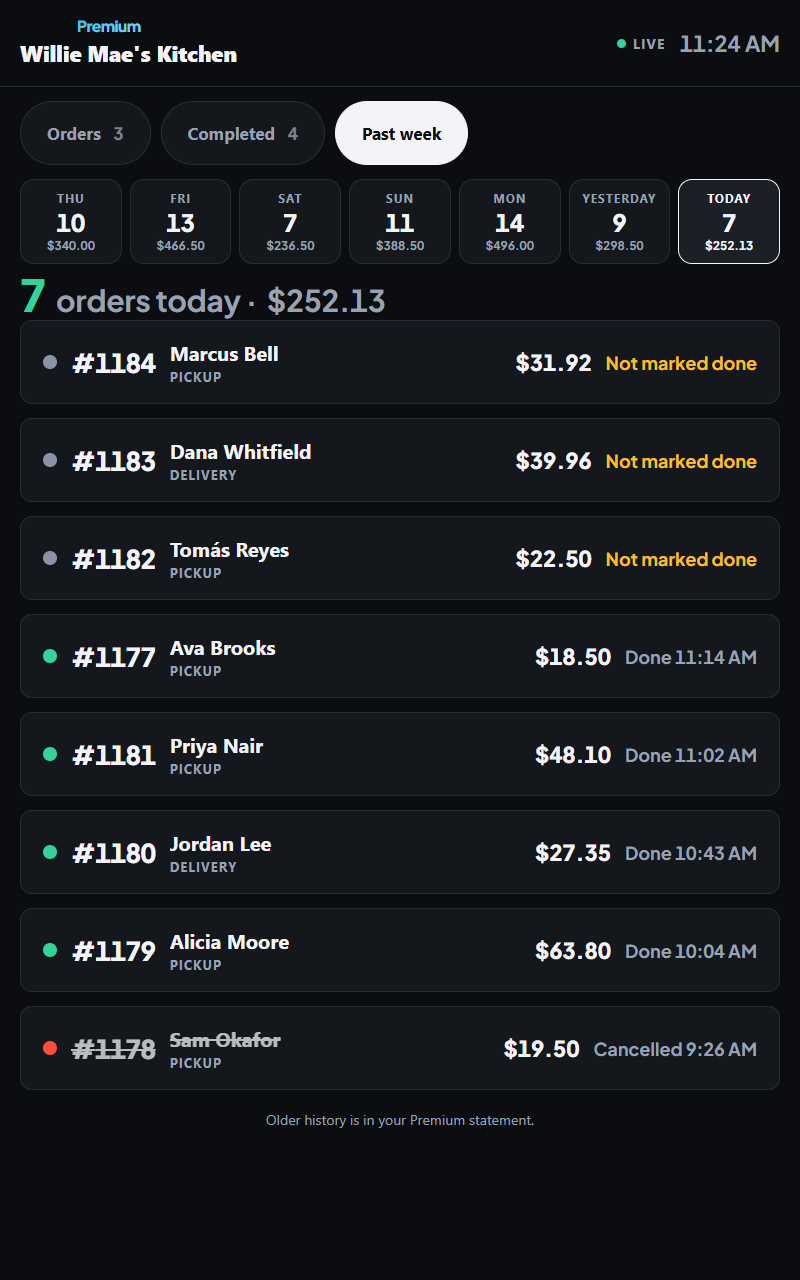
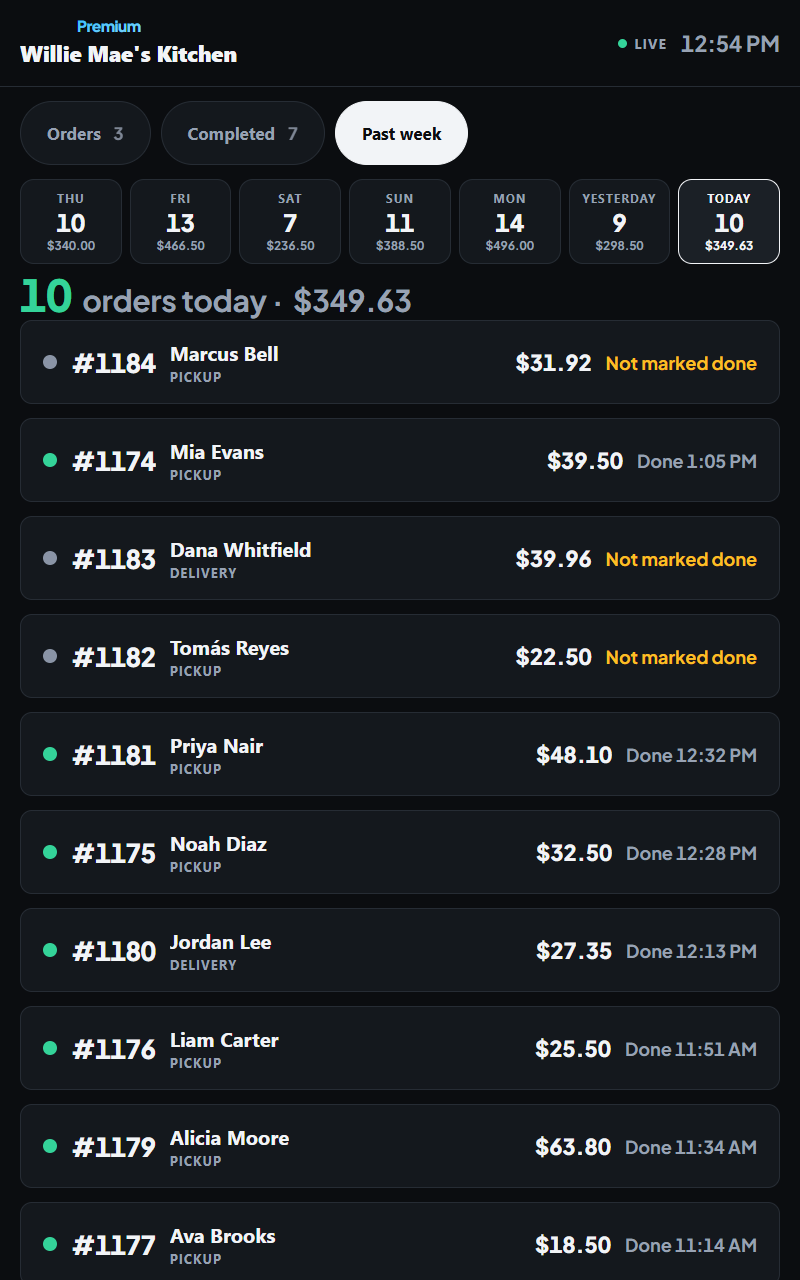
Orders drop off six hours after they arrive - the chime's window
The brief's bold default (taken as instructed): an order nobody marked
Done leaves the Orders list after 6 h, not at midnight. bucketOf() now
reads an age, not a date, for the kitchen; Completed and Past week keep
the restaurant's own day. The chime, the list and the hero's red all let
go at the same STILL_ACTIONABLE_MS, and a test pins the three together.

diff --git a/scripts/test-order-display.ts b/scripts/test-order-display.ts
@@ -110,23 +110,24 @@ test("an order in the kitchen is one received today and not settled", () => {
   assert.equal(inKitchen(order(), NOW, TZ), true);
 });
 
-test("it leaves the kitchen at midnight, restaurant time - not after six hours", () => {
-  // Nick, 2026-09-16: "lets do every night at midnight".
-  const sevenHoursAgo = order({ received_at: agoMs(7 * 3600_000) }); // 7 am Central, still today
-  assert.equal(bucketOf(sevenHoursAgo, NOW, TZ), "orders", "seven hours old but still today's");
-  const lastNight = order({ received_at: "2026-09-16T04:30:00Z" }); // 11:30 pm Central yesterday
-  assert.equal(bucketOf(lastNight, NOW, TZ), "past");
-  // The same instant read in UTC would still be "today". The zone is the
-  // whole point.
-  assert.equal(bucketOf(lastNight, NOW, "UTC"), "orders");
+test("it leaves the kitchen six hours after it arrived - the chime's window", () => {
+  // The brief's bold default. Past six hours the tablet has stopped
+  // ringing for it and nobody is going to cook it.
+  assert.equal(bucketOf(order({ received_at: agoMs(STILL_ACTIONABLE_MS - 1000) }), NOW, TZ), "orders");
+  assert.equal(bucketOf(order({ received_at: agoMs(STILL_ACTIONABLE_MS) }), NOW, TZ), "past");
+  assert.equal(bucketOf(order({ received_at: agoMs(7 * 3600_000) }), NOW, TZ), "past", "seven hours old: gone, whatever the day");
+  // Independent of the zone - it is an age, not a date.
+  assert.equal(bucketOf(order({ received_at: agoMs(5 * 3600_000) }), NOW, "UTC"), "orders");
+  assert.equal(bucketOf(order({ received_at: agoMs(5 * 3600_000) }), NOW, TZ), "orders");
 });
 
 test("ageing out does not fabricate a completion", () => {
-  // It simply stops being today's; its status is whatever it was.
-  const old = order({ received_at: "2026-09-15T20:00:00Z" });
+  // It simply stops being in the kitchen; its status is whatever it was.
+  const old = order({ received_at: agoMs(7 * 3600_000) });
   assert.equal(bucketOf(old, NOW, TZ), "past");
   assert.equal(old.status, "new");
   assert.equal(completedToday(old, NOW, TZ), false);
+  assert.equal(countsForHistory(old), true, "and Past week still counts it as business done");
 });
 
 test("completed today is by when it was completed, not received", () => {
@@ -141,7 +142,7 @@ test("completed today is by when it was completed, not received", () => {
 test("a cancellation today is shown under Completed, struck - it does not vanish", () => {
   assert.equal(bucketOf(order({ status: "cancelled", cancelled_at: agoMs(1000) }), NOW, TZ), "completed");
   assert.equal(orderFlag(order({ status: "cancelled" }))?.label, "Cancelled");
-  assert.match(src("app/globals.css"), /\.done-row\.cancelled \.done-name,\n\.done-row\.cancelled \.done-no \{ text-decoration: line-through/);
+  assert.match(src("app/globals.css"), /\.done-row\.cancelled \.done-name,\r?\n\.done-row\.cancelled \.done-no \{ text-decoration: line-through/);
 });
 
 test("the dashboard's lists and counts all come from bucketOf", () => {
@@ -223,23 +224,23 @@ test("a settled order is never late, however old", () => {
   assert.equal(isLate(order({ ...old, status: "completed" }), NOW), false);
 });
 
-test("past the chime window an order goes muted, not redder", () => {
-  // Red and breathing for something from breakfast teaches the room that red
-  // is background. It is still today's and still listed - it just stops
-  // shouting, and it stops counting as late.
+test("the chime, the list and the late flag all let go at the same six hours", () => {
+  // One window, three readers. If they drifted, a ticket could ring for
+  // an order that is not on screen, or sit red on a list the chime had
+  // given up on.
   const stale = order({ received_at: agoMs(STILL_ACTIONABLE_MS) });
-  assert.equal(ageClass(stale, NOW), "age-stale");
-  assert.equal(ageClass(order({ received_at: agoMs(STILL_ACTIONABLE_MS - 1) }), NOW), "age-late");
-  assert.equal(isLate(stale, NOW), false);
-  assert.equal(bucketOf(stale, NOW, TZ), "orders", "still in the kitchen until midnight");
   assert.equal(unseen([stale], NOW).length, 0, "the chime lets it go");
+  assert.equal(bucketOf(stale, NOW, TZ), "past", "and so does the list");
+  assert.equal(isLate(stale, NOW), false, "and so does the hero's red");
+  assert.equal(ageClass(stale, NOW), "age-stale", "if it were ever painted, muted, not red");
+  assert.equal(ageClass(order({ received_at: agoMs(STILL_ACTIONABLE_MS - 1) }), NOW), "age-late");
 });
 
 test("a missing or unreadable timestamp does not crash or colour", () => {
   assert.equal(ageClass(order({ received_at: null }), NOW), "age-calm");
   assert.equal(ageClass(order({ received_at: "not a date" }), NOW), "age-calm");
   assert.equal(elapsedLabel(order({ received_at: null }), NOW), "");
-  assert.equal(bucketOf(order({ received_at: null }), NOW, TZ), "past", "no date: not today's");
+  assert.equal(bucketOf(order({ received_at: null }), NOW, TZ), "past", "no date: not in the kitchen");
 });
 
 console.log("\nthe timer:");

diff --git a/lib/order-display.ts b/lib/order-display.ts
@@ -16,11 +16,11 @@
  *   too, so the office's "nobody has looked at this order" alarm keeps its
  *   meaning ("When the ticket is opened treat that as accepted" - Nick).
  *
- *   An order leaves the Orders list at MIDNIGHT, restaurant time, not after
- *   six hours ("lets do every night at midnight" - Nick). It is not marked
- *   completed when it ages out: it simply stops being today's, and Past
- *   week shows it with whatever status it has. Nothing here fabricates a
- *   completion.
+ *   An order leaves the Orders list six hours after it was received - the
+ *   same window the chime stops at (STILL_ACTIONABLE_MS); past it nobody is
+ *   going to cook it. It is not marked completed when it ages out: it
+ *   simply stops being in the kitchen, and Past week shows it with whatever
+ *   status it has, "not marked done". Nothing here fabricates a completion.
  *
  * The database statuses are untouched. Printing and accounting read them,
  * and the README's rule stands: orders.status semantics are not this
@@ -72,13 +72,17 @@ export function isUnopened(order: Pick<Order, "status" | "opened_at" | "accepted
 export type Bucket = "orders" | "completed" | "past";
 
 /**
- * Orders = in the kitchen: not settled, and received today (restaurant
- * time). Completed = finished today, or cancelled today - a cancellation
- * is shown, struck through, rather than vanishing, so nobody wonders where
- * the ticket went. Everything else is history, and Past week's.
+ * Orders = in the kitchen: not settled, and received within the last six
+ * hours. Completed = finished today, or cancelled today (restaurant time)
+ * - a cancellation is shown, struck through, rather than vanishing, so
+ * nobody wonders where the ticket went. Everything else is history, and
+ * Past week's.
  *
- * "Today" is the restaurant's day: an order from 11:50 last night is not
- * in the kitchen at 8 this morning, and one from 11:50 tonight is.
+ * Six hours for the kitchen because that is the chime's window: an order
+ * the tablet has stopped ringing for is an order nobody is going to cook,
+ * and a list that keeps it is a list that teaches the room to ignore the
+ * top of it. "Today" for Completed is the restaurant's day: 11:50 last
+ * night is yesterday's business at 8 this morning.
  */
 export function bucketOf(
   order: Pick<Order, "status" | "received_at" | "completed_at" | "cancelled_at">,
@@ -86,7 +90,8 @@ export function bucketOf(
   timezone: string | null | undefined
 ): Bucket {
   if (!isSettled(order)) {
-    return isSameLocalDay(order.received_at, now, timezone) ? "orders" : "past";
+    const age = ageMs(order, now);
+    return age !== null && age < STILL_ACTIONABLE_MS ? "orders" : "past";
   }
   const settledAt =
     (order.status === "completed" ? order.completed_at : order.cancelled_at) ?? order.received_at;

diff --git a/components/OrderDashboard.tsx b/components/OrderDashboard.tsx
@@ -41,8 +41,8 @@ import {
  * the kitchen today; "Completed" is what was finished today; "Past week"
  * is read-only. Was Waiting / Accepted / Done - three states of a step
  * that no longer exists. There is no Accept: opening a ticket is the
- * acknowledgement, Done is the one action, and the list empties itself at
- * midnight.
+ * acknowledgement, Done is the one action, and an order nobody marked done
+ * ages off the list six hours after it arrived.
  */
 type TabKey = "orders" | "completed" | "past";
 
@@ -438,8 +438,8 @@ export default function OrderDashboard({
    * kitchen picks up next. Completed newest first - the last thing you did
    * is the one you want to check.
    *
-   * `now` moves every second and the day boundary is read from it, which
-   * is how the list empties itself at midnight without a reload.
+   * `now` moves every second and the six-hour window is read from it,
+   * which is how an order ages off the list without a reload.
    */
   const kitchen = useMemo(
     () =>

diff --git a/public/demo.html b/public/demo.html
@@ -751,14 +751,13 @@ table.admin-table th, table.admin-table td {
   line-height: 1.3;
 }
 .offline-text { flex: 1 1 280px; }
-.offline-wifi {
-  flex: 0 0 auto;
-  background: #fff;
-  color: #7a1d14;
-  border-color: #fff;
-  min-height: 52px;
-  font-weight: 800;
+.offline-hint {
+  flex: 1 1 100%;
+  font-weight: 600;
+  font-size: var(--text-md);
+  opacity: 0.92;
 }
+.pairing-ref { opacity: 0.6; }
 
 .app-list.offline { opacity: 0.55; }
 

diff --git a/README.md b/README.md
@@ -599,12 +599,13 @@ in the kitchen today — and **Completed** — what was finished today — plus 
 read-only **Past week** of counts and totals. There is no Accept step:
 opening a ticket is the acknowledgement (it stops the chime and stamps
 `opened_at` and `accepted_at`), and **Done** is the one action, which marks
-the order completed. The Orders list empties itself at **midnight,
-restaurant time** (`restaurants.timezone`); an order nobody marked Done is
-not marked completed when it ages out — it simply stops being today's and
-Past week shows it as "not marked done". `orders.status` semantics are
-untouched: the rules for what to SHOW are in `lib/order-display.ts`, the
-chime's in `lib/kiosk.ts` (`unseen()`), the day's in `lib/local-day.ts`.
+the order completed. An order nobody marked Done leaves the Orders list
+**six hours** after it arrived — the chime's own window — and is not
+marked completed when it ages out; Past week shows it as "not marked
+done". Completed and Past week are cut by the restaurant's own day
+(`restaurants.timezone`). `orders.status` semantics are untouched: the
+rules for what to SHOW are in `lib/order-display.ts`, the chime's in
+`lib/kiosk.ts` (`unseen()`), the day's in `lib/local-day.ts`.
 
 
 The tablet runs in **kiosk mode with autostart** — it boots into the dashboard
